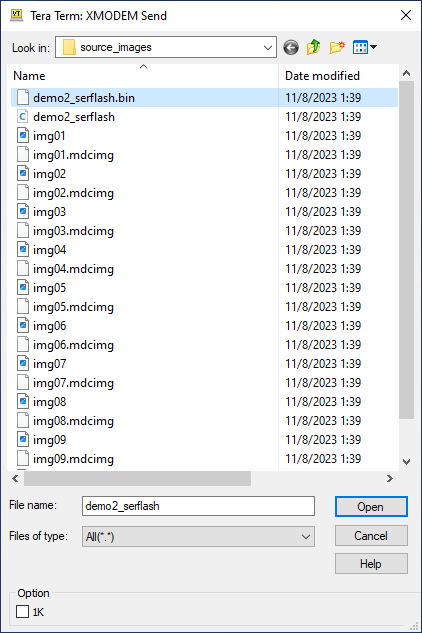
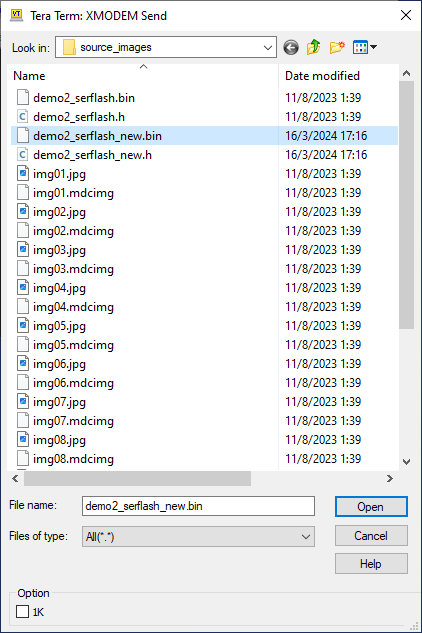
New section for new images

diff --git a/README.md b/README.md
@@ -6,8 +6,9 @@
 4. [Preparing Development Environment](#prepare_dev_env)
 5. [Download S1D13C00 Software from Epson](#epson_sw)
 6. [Importing the Examples](#import_examples)
-7. [Sending New Binary Files to Serial Flash](#bin_files_update)
-8. [Power Consumption and its Measurement ](#power_consumption)
+7. [Prepare Binary Files for New Images](#new_images)
+8. [Sending Binary Files to Serial Flash](#bin_files_update)
+9. [Power Consumption and its Measurement ](#power_consumption)
 
 <img src = "./docs/FrontCover.jpg">
 
@@ -234,13 +235,13 @@ Backlight is also available with an ON/OFF switch S100.
 
 <img src = "./docs/Importing_all_examples.png">
 
-## Sending New Binary Files to Serial Flash <a name="bin_files_update"></a>
+## Prepare Binary Files for New Images <a name="new_images"></a>
 
 There are two methods to preload some images to the system:
 
-1. in binary format to the external Serial Flash
+1. in an external Serial Flash (Winbond 25Q128JVSQ 128Mbit Serial Flash onboard)
 
-2. in .h array to Flash space of the host CPU
+2. in Flash space of the host CPU in *.h format
 
 Method 1 is preferred because it saves precious programming space of the CPU.
 
@@ -252,9 +253,9 @@ Image sources are available from the `\source_images` folder.
 
 <img src = "./docs/Binary_file_loc.png">
 
-Epson has released [three tools](https://vdc.epson.com/display-controllers/s1d13c00-peripheral-circuit-sample-software-manual/viewdocument/611) to convert fonts and images to format compatible with S1D13C00.
+Epson has released [three tools](https://vdc.epson.com/display-controllers/s1d13c00-peripheral-circuit-sample-software-manual/viewdocument/611) to convert fonts and images to formats compatible with S1D13C00.
 
-Features of the tools are summarised below:
+Features of the tools are summarised as folllows:
 
 | Tool                            | Features                                                     |      |
 | ------------------------------- | ------------------------------------------------------------ | ---- |
@@ -262,17 +263,53 @@ Features of the tools are summarised below:
 | MDCImgConv.exe                  | Convert common image formats (BMP, PNG, JPG, ICO, TIF, GIF) to pixel formats supported by S1D13C00. The tool can generate header files (.h), binary files (.mdcimg) or HEX files (.hex). |      |
 | MDCSerFlashImg.exe              | Create a binary image for downloading to the serial flash W25Q128JVSIQTR |      |
 
-Procedures below show you how to send a new binary file to the Serial Flash with [Tera Term](https://github.com/TeraTermProject/teraterm/releases). 
+Procedures described below demonstrate how to update the Serial Flash content with new images.
+
+**Step 1:** Copy new images to `C:\EPSON\S1D13C00_SW\Examples\demo2_LS021B7DD01\source_images` for easier project management. You may find the new images from folder at [link](https://github.com/techtoys/Sharp-Color-Memory-LCD-EVK/tree/main/docs).
+
+<img src = "./docs/New_images.png" width=70%>
+
+**Step 2:** Launch `MDCImgConv.exe` from `C:\EPSON\S1D13C00_SW\Tools`. Open each of the images (img11-13.png) from the path in step 1. Click the **Export image** button to convert to *.mdcimg format for each of the images.
+
+<img src = "./docs/MDCImgConv.png" width=70%>
+
+<img src = "./docs/MDCImgConv_2_mdcimg.png">
+
+**Step 3:** After conversions, you will get three new files in .mdcimg format. 
+
+<img src = "./docs/MDCImgConv_new_mdcimg.png" width=80%>
+
+Launch `MDCSerFlashImg.exe` from `C:\EPSON\S1D13C00_SW\Tools`. Add all 13 images (img01.mdcimg - img13.mdcimg) to the dialog box. Don't forget to include the original files img01.mdcimg - img10.mdcimg unless you want to remove any of them. In this example, we are adding three images to the list and keep the original 10 images.
+
+<img src = "./docs/MDCSerFlashImg.png">
+
+Not to overwrite the original binary file, we may choose a new filename as `demo2_serflash_new`.
+
+Click **Save**.
+
+<img src = "./docs/MDCSerFlashImgSave.png">
+
+By inspecting the folder content, we will see that two files have been created: `demo2_serflash_new.bin` and `demo2_serflash_new.h`.
+
+The binary file is the file to send to Serial Flash and the .h header file contains the address information.
+
+<img src = "./docs/MDCSerFlashImgCompare_new_n_old.png">
+
+Now, we are ready to send the new binary file to Serial Flash.
+
+## Sending Binary Files to Serial Flash <a name="bin_files_update"></a>
+
+Send a new binary file to the Serial Flash with [Tera Term](https://github.com/TeraTermProject/teraterm/releases). 
 
 **Step 1:** Launch Tera Term, select the new COM Port enumerated by TM4C1294 LaunchPad. Click **OK**.
 
 <img src = "./docs/Teraterm_new_connection.png">
 
-**Step 2:** From **Setup > Serial Port > set Speed to 115200 > click New setting**.
+**Step 2:** From **Setup** > **Serial Port** > set **Speed to 115200** > click **New setting**.
 
 <img src = "./docs/Teraterm_serial_speed.png">
 
-**Step 3:** Click the reset button on TM4C1294-EK board, you will see a short manual from Tera Term. Type Z from keyboard to erase the Serial Flash. 
+**Step 3:** By clicking the reset button on TM4C1294-EK board, you will see a short manual on Tera Term. Type Z from the keyboard to erase the Serial Flash. 
 
 <img src = "./docs/Teraterm_Z_to_erase.png">
 
@@ -280,7 +317,7 @@ Procedures below show you how to send a new binary file to the Serial Flash with
 
 <img src = "./docs/Teraterm_Z_erase_complete.png">
 
-**Step 5:** From **File > Transfer > XMODEM > Send**, browse to the binary file (C:\EPSON\S1D13C00_SW\Examples\demo2_LS021B7DD01\source_images\demo2_serflash.bin) to download. 
+**Step 5:** From **File > Transfer > XMODEM > Send**, browse to the binary file `C:\EPSON\S1D13C00_SW\Examples\demo2_LS021B7DD01\source_images\demo2_serflash_new.bin` to download.
 
 <img src = "./docs/Teraterm_Z_to_send_xmodem.png">
 
@@ -290,7 +327,7 @@ The progress of Xmodem transfer is shown.
 
 <img src = "./docs/Teraterm_Z_xmodem_progress.png">
 
-Wait until it finishes. Be patient! It takes time.
+Wait until it finishes. Be patient, It takes time!
 
 <img src = "./docs/Teraterm_xmodem_finish.png">
 
@@ -298,7 +335,35 @@ Wait until it finishes. Be patient! It takes time.
 
 <img src = "./docs/SW1_switch.jpg" width=70%>
 
-<img src = "./docs/demo2.jpg">
+You will see the first image to display on LCD.
+
+<img src = "./docs/demo2.jpg" width=70%>
+
+**Step 7:** There remains the final step to *let the microcontroller know* that, there are three new images in the Serial Flash. There are 4 places in the source code to change:
+
+1. in `main.c`, change `#include "demo2_serflash.h`" > `#include "demo2_serflash_new.h"` to include the new address map,
+
+2. modify `uint32_t picslib[10]` > `uint32_t picslib[13]` to include an array of 13 images,
+
+3. modify the function `void Button1Handler(void)` from `++pic==10` to `++pic==13` to enable image scrolling up to index 12 with the push button SW1
+
+4. add the following code to include new image addresses
+
+   ```C
+     picslib[10] = img11_PXDATA_ADDR;
+     picslib[11] = img12_PXDATA_ADDR;
+     picslib[12] = img13_PXDATA_ADDR;
+   ```
+
+   A screen capture of `main.c` is shown below for a better illustration.
+
+<img src = "./docs/demo2_changes_4_13images.png">
+
+Reprogram the board and click **reset**. Keep clicking **SW1** to browse to the new images.
+
+<img src = "./docs/img11_on_LCD.jpg" width=70%>
+
+<img src = "./docs/img13_on_LCD.jpg" width=70%>
 
 ## Power Consumption and its Measurement <a name="power_consumption"></a>
 
